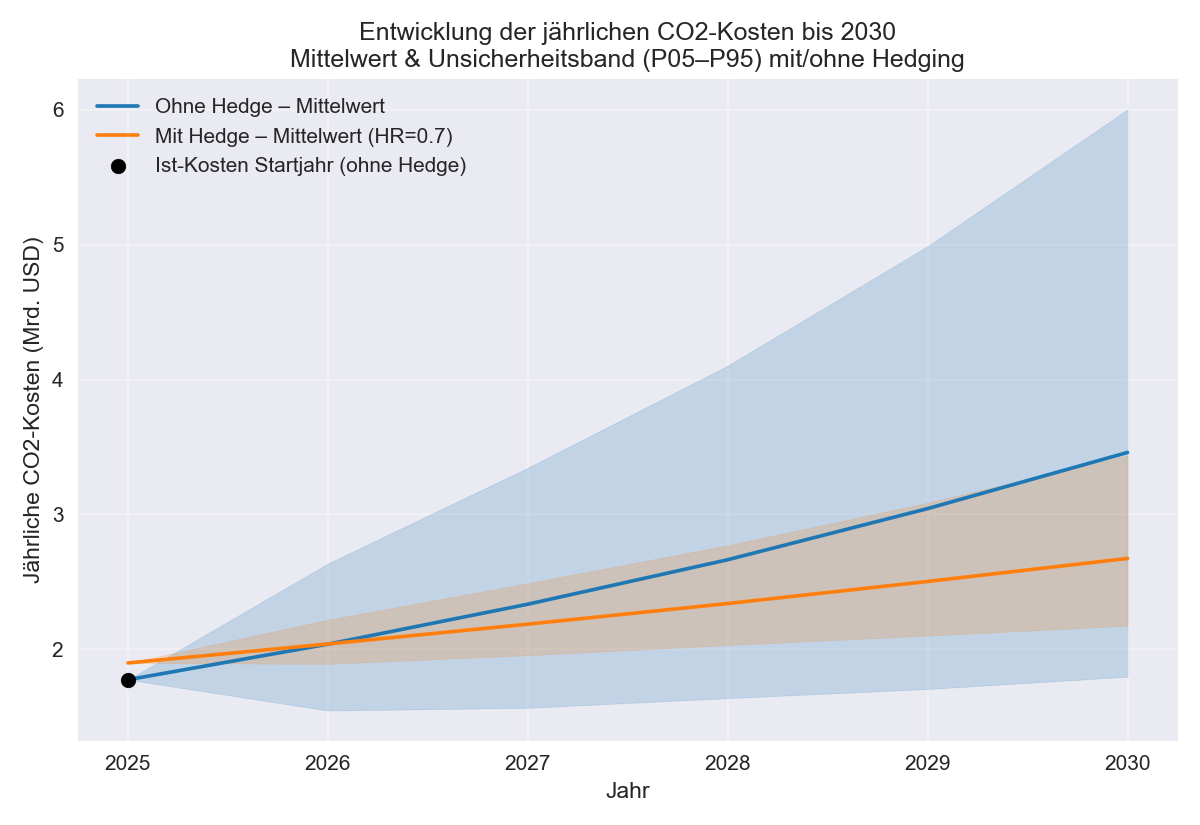
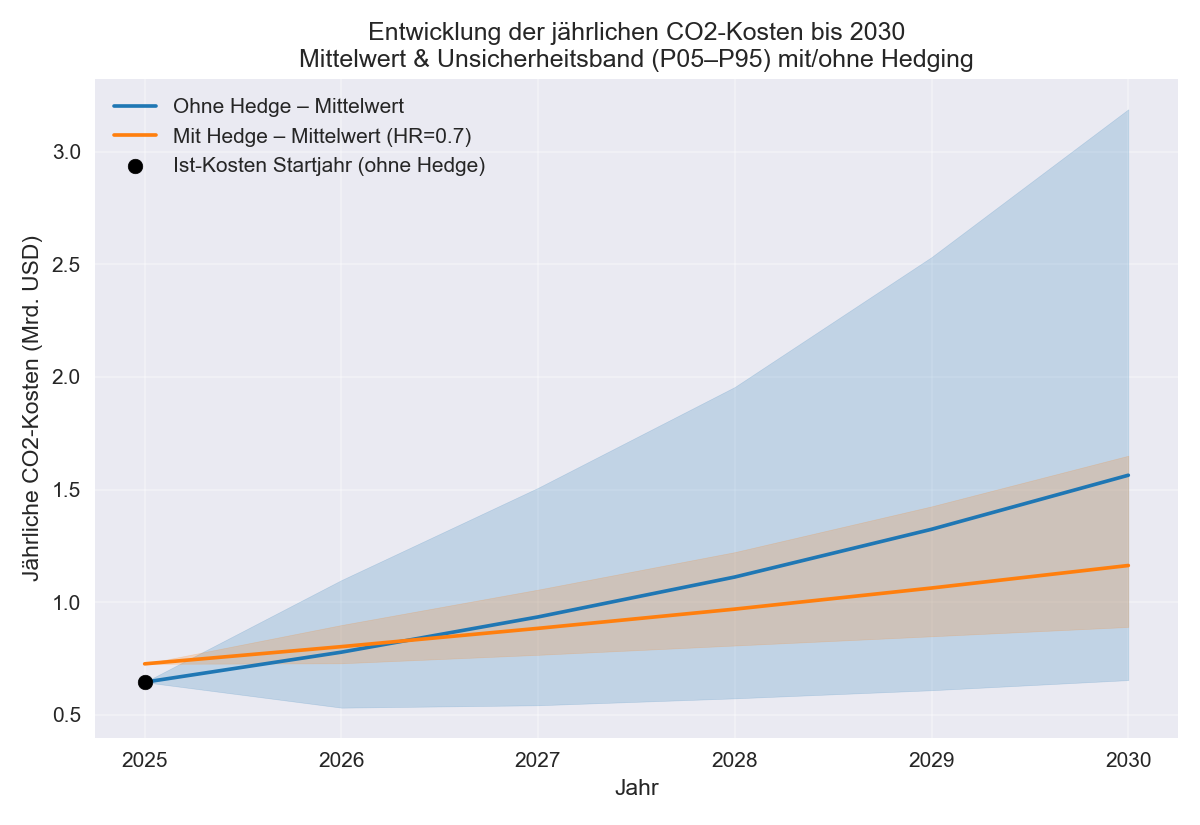
1

diff --git a/main.py b/main.py
@@ -8,72 +8,80 @@ import pandas as pd
 
 YEARS = list(range(2025, 2031))  # 2025–2030 inkl.
 
-# Globaler Scope-1-Anker (grob basierend auf Exxon-Daten, 2016–2024 Trend & 2030 Ziel)
+# Globaler Scope-1-Anker (ExxonMobil 2024 Reported approx.)
 SCOPE1_ANCHOR_START_YEAR = 2024
-SCOPE1_ANCHOR_START_T    = 103_000_000   # tCO2e global Scope 1 (≈ Exxon 2024, gerundet)
+SCOPE1_ANCHOR_START_T    = 103_000_000   # tCO2e global Scope 1
 SCOPE1_ANCHOR_END_YEAR   = 2030
-SCOPE1_ANCHOR_END_T      = 90_000_000    # tCO2e 2030 (modellierte Zielgröße, leichter Rückgang)
+SCOPE1_ANCHOR_END_T      = 90_000_000    # Zielgröße durch Divestments (Gravenchon etc.)
 
-# Modellierte größten Märkte
+# Modellierte Märkte
 MARKETS = ["USA", "Canada", "EU_UK"]
 
-# Marktanteile an globalen Scope-1-Emissionen (Approx. aus Produktionsanteilen abgeleitet)
+# Marktanteile an globalen Scope-1-Emissionen (Brutto-Emissionen vor Regulierung)
+# Kanada ist hoch durch Ölsande (Imperial Oil), EU sinkt durch Verkäufe.
 MARKET_SHARE = {
-    "USA":   0.45,   # ~45 % der Produktion in den USA
-    "Canada":0.20,   # Kanada + weitere Amerika ≈ 20 % für Modell
-    "EU_UK": 0.05,   # EU/UK sehr klein, 5 % als obere Schätzung
+    "USA":    0.45,   # ~46 Mio t (Permian, Gulf Coast Refining)
+    "Canada": 0.25,   # ~25 Mio t (Kearl, Cold Lake - hohe Intensität)
+    "EU_UK":  0.10,   # ~10 Mio t (Rotterdam, Antwerp, Fife)
 }
-    # Rest (~30 %) = „Other“, wird im Modell ignoriert (kein Hedge)
-# Anteil der Emissionen, die effektiv einem CO2-Preis unterliegen (Coverage)
-# – konservativ, aber an Systemlogik orientiert
+    # Rest (20%) = Asien/LNG/Other (nicht bepreist)
+
+# "Effective Coverage": Wie viel % der Emissionen müssen tatsächlich bezahlt werden?
+# WICHTIG: In Kanada (TIER) zahlt man nur für Emissionen ÜBER dem Benchmark.
+# Daher ist die "Coverage" hier mathematisch niedrig (~15%), um das Netto-Exposure (~3.3Mt) abzubilden.
 COVERAGE_2025 = {
-    "USA":   0.30,   # nur Teile (Kalifornien, Washington, RGGI)
-    "Canada":0.70,   # föderaler Mindestpreis + Provinzsysteme
-    "EU_UK": 0.90,   # nahezu alle großen Anlagen im ETS/UK ETS
+    "USA":    0.03,   # Nur CA/WA Assets zahlen voll (~1.5 Mt Netto-Exposure)
+    "Canada": 0.15,   # TIER-System: Nur marginale Emissionen über Benchmark sind steuerpflichtig
+    "EU_UK":  0.40,   # EU ETS: Freie Zuteilung deckt noch ~60%, Tendenz fallend
 }
+
 COVERAGE_2030 = {
-    "USA":   0.50,   # mehr Staaten / stärkere Regulierung angenommen
-    "Canada":0.90,   # fast vollständige Abdeckung der großen Emittenten
-    "EU_UK": 1.00,   # vollständige Abdeckung angenommen
+    "USA":    0.05,   # Leichter Anstieg (mögliche neue US-Staaten)
+    "Canada": 0.20,   # Benchmarks werden strenger (2-4% Tightening p.a.) -> mehr steuerbar
+    "EU_UK":  0.60,   # CBAM Phase-in: Freie Zuteilungen fallen weg -> Exposure steigt massiv
 }
 
-# CO2-Preisanker 2025/2030 (lokale Währung)
-# USA & Canada hier bereits in USD, EU/UK in EUR (wird unten mit FX in USD umgerechnet)
+# Währungsannahmen
+FX_EURUSD = 1.05
+FX_CADUSD = 0.71
+
+# Spot-Preisanker (Prognosen für Drift-Berechnung)
+# USA/Canada in USD umgerechnet, EU in EUR (wird unten konvertiert)
 PRICE_2025 = {
-    "USA":   30.0,   # USD/t – angenähert an CCA/US-ETS-Größenordnung
-    "Canada":69.0,   # USD/t – aus 95 CAD ≈ 69.38 USD (Bundes-Backstop 2025)  [oai_citation:0‡icapcarbonaction.com](https://icapcarbonaction.com/system/files/ets_pdfs/icap-etsmap-factsheet-135.pdf?utm_source=chatgpt.com)
-    "EU_UK": 80.0,   # EUR/t – in der Nähe aktueller EUA-Dec25-Futures (~78–83 EUR)  [oai_citation:1‡Investing.com](https://www.investing.com/commodities/european-union-allowance-eua-year-futures-historical-data?utm_source=chatgpt.com)
+    "USA":    32.50,  # USD (California/WCI Auction)
+    "Canada": 67.50,  # USD (~95 CAD TIER Fund Price - Frozen status)
+    "EU_UK":  81.50,  # EUR (Aktueller Spot Dec25)
 }
+
+# Risiko-Szenario Preise 2030 (Hier nehmen wir den "Bull Case" der Analysten an)
+# Damit simulieren wir das Risiko, gegen das wir hedgen wollen.
 PRICE_2030 = {
-    "USA":   50.0,   # USD/t – moderates Wachstumsszenario
-    "Canada":124.0,  # USD/t – aus 170 CAD ≈ 124.15 USD (Bundes-Backstop 2030)  [oai_citation:2‡icapcarbonaction.com](https://icapcarbonaction.com/system/files/ets_pdfs/icap-etsmap-factsheet-135.pdf?utm_source=chatgpt.com)
-    "EU_UK": 90.0,   # EUR/t – leicht höheres EUA-Niveau in 2030 (Szenario)
+    "USA":    90.00,  # USD (Verschärfung CA/WA Programme)
+    "Canada": 120.00, # USD (~170 CAD Federal Backstop - falls Freeze endet)
+    "EU_UK":  149.00, # EUR (BloombergNEF Prognose "Fit for 55")
 }
 
-# FX-Annahme für EUR → USD
-FX_EURUSD = 1.08   # 1 EUR = 1.08 USD (grobe Annahme)
-
-# Fixpreise der Futures (Hedge-Preis K) in USD/t
-# – etwas über den 2025-Spots (Risk Premium)
+# Hedge-Preis (K): Was zahlen wir HEUTE für den 2030 Future/Option Strike?
+# EU: Liquid am Markt handelbar (Contango). Kanada/USA: Schätzung basierend auf Forward-Kurven/CCS-Kosten.
 FUTURES_PRICE_USD = {
-    "USA":   35.0,                 # USD/t – CO2-Futures auf US-Systeme
-    "Canada":75.0,                 # USD/t – leicht über 2025-Backstop
-    "EU_UK": 85.0 * FX_EURUSD,     # EUR 85 → USD (EUA-Future-Niveau leicht über Spot)
+    "USA":    60.00,             # USD (Impliziter Forward Preis)
+    "Canada": 71.00,             # USD (~100 CAD - CCS Breakeven als "Physical Hedge")
+    "EU_UK":  97.00 * FX_EURUSD, # EUR 97 (ICE Endex Dec 30 Future) in USD
 }
 
-# Volatilität (annualisierte sigma) pro Markt
+# Volatilität (Sigma)
 SIGMA = {
-    "USA":   0.20,   # 20 % – US-Carbonpreise (CCA/RGGI) historisch moderat volatil
-    "Canada":0.25,   # 25 % – fragmentierter Markt, etwas höhere Unsicherheit  [oai_citation:3‡clearbluemarkets.com](https://www.clearbluemarkets.com/knowledge-base/navigating-canadas-carbon-markets-ahead-of-the-2026-federal-benchmark-review?utm_source=chatgpt.com)
-    "EU_UK": 0.35,   # 35 % – EUAs historisch ~30–40 % Jahresvola  [oai_citation:4‡Investing.com](https://www.investing.com/commodities/european-union-allowance-eua-year-futures-historical-data?utm_source=chatgpt.com)
+    "USA":    0.20,  # Floor-Price Mechanismus dämpft Vola
+    "Canada": 0.30,  # Hohe politische Unsicherheit (Wahl Poilievre vs. Trudeau)
+    "EU_UK":  0.35,  # Hohe Vola durch MSR-Eingriffe und Gas-Preise
 }
 
 # Simulationseinstellungen
-N_SIMS = 20_000     # Anzahl Monte-Carlo-Pfade
-RANDOM_SEED = 42    # Reproduzierbarkeit
+N_SIMS = 20_000
+RANDOM_SEED = 42
 
 # Hedge-Ratios, die du durchsimulierst (global, gleiche Quote für alle Märkte)
-HEDGE_RATIOS_TO_TEST = [0.0, 0.3, 0.5, 0.7, 1.0]
+HEDGE_RATIOS_TO_TEST = [0.0, 0.25, 0.50, 0.75, 1.0]  # Exxon spezifische Schritte
 
 # „Other“ nicht explizit modellieren
 INCLUDE_OTHER = False
